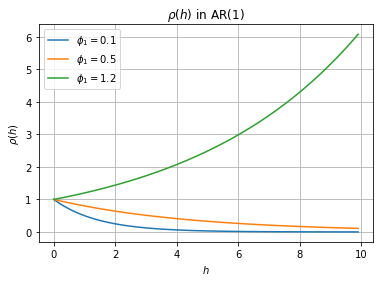
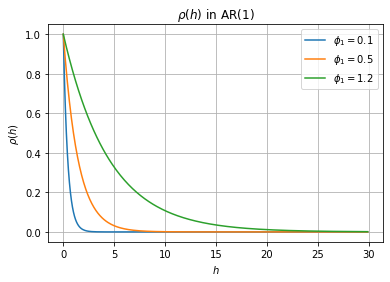
upd

Changed region(s): [[0.0289, 0.0284, 1.0, 0.9645], [0.6079, 0.8794, 0.6368, 0.9078]]

diff --git a/_posts/Study/TimeSeriesAnalysis/2020-01-28-3.md b/_posts/Study/TimeSeriesAnalysis/2020-01-28-3.md
@@ -304,17 +304,24 @@ $\hat \gamma_x(0)- \hat \phi_1 \hat \gamma_x(1) - \hat \phi_2 \hat \gamma_x(2) =
 Data로부터 계산할 수 있는 $\rho_x(h)$와 model간의 관계를 자세히 알아보자. <br>
 
 ### - AR(1)
-$x_t = \phi_1 x_{t-1} + a_t \quad \cdots \quad$ stationary if $\mid \phi_1 \mid < 1$ <br>
+AR(1): $x_t = \phi_1 x_{t-1} + a_t \quad \cdots \quad$ stationary if $\mid \phi_1 \mid < 1$ <br>
 양변에 $x_{t-h}$를 곱해주고 expectation을 취하는 Y-K equation을 만들어주면, <br>
 
-$\rho(h) = \phi_1 \rho(h-1), \ h \geq 1$ <br>
+Y-W eq: $\rho(h) = \phi_1 \rho(h-1), \ h \geq 1$ <br>
 즉, $\rho(h) = \phi_1^h$ 이다. <br>
 
 ![png](/images/2020-01-28-3/1.png)
 
-만약 data로부터 구한 $\rho(h)$가 위의 그림과 같이 $h$에 exponential한 관계를 보인다면, 이것은 AR(1) model을 사용하는 것이 좋다는 clue가 된다. <br>
+만약 data로부터 구한 $\rho(h)$가 $h$에 exponential한 관계를 보인다면, 이것은 AR(1) model을 사용하는 것이 좋다는 clue가 된다. <br>
 
+### - AR(2)
+Y-W eq: $\rho(h) = \phi_1 \rho(h-1) + \phi_2 \rho(h-2)$ <br>
+$\rho(h) = a_1 y_1^h + a_2 y_2^h \quad \cdots \quad y_1, y_2 \text{: solution of } y^2 - \phi_1 y - \phi_2 = 0, \ a \text{: solved by } \rho(0), \rho(1)$ <br>
 
+즉, 계산한 $\rho(h)$가 두 개의 exponential pattern의 합으로 나타나는 경우 AR(2)를 사용할 수 있다. <br>
+$y$가 실수인 경우 AR(1)과 유사한 그래프를 보여주지만, $y$가 복소수인 경우 위아래로 요동치는 그래프를 볼 수 있다. <br>
+
+![png](/images/2020-01-28-3/2.png)
 
 ---
 
